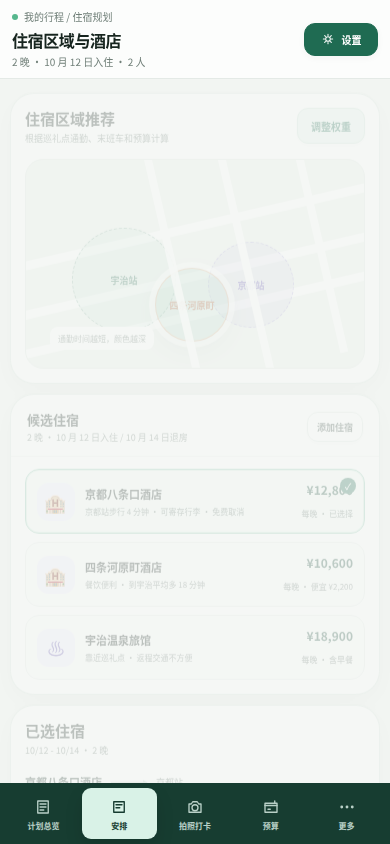
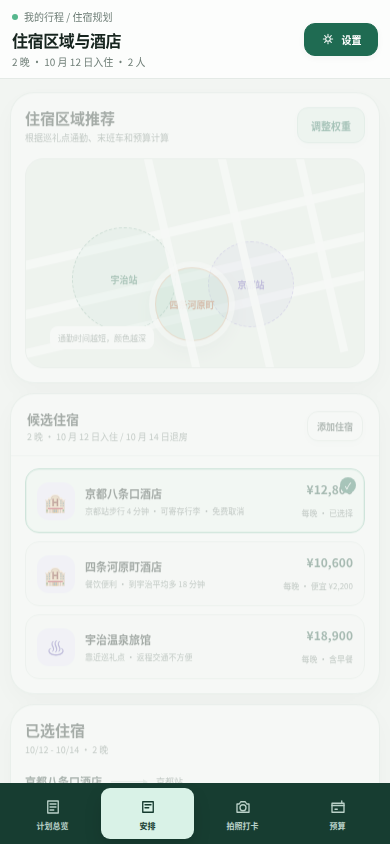
design: remove redundant mobile more tab

diff --git a/design/enikki-ui.html b/design/enikki-ui.html
@@ -115,14 +115,14 @@ button,input{font:inherit}button{border:0;cursor:pointer}svg{display:block}
 @media(max-width:760px){
   .app-shell{grid-template-rows:minmax(0,1fr) calc(61px + env(safe-area-inset-bottom))}
   .sidebar{padding:5px 6px calc(5px + env(safe-area-inset-bottom))}
-  .nav{grid-template-columns:repeat(5,minmax(0,1fr));gap:1px}
+  .nav{grid-template-columns:repeat(4,minmax(0,1fr));gap:2px}
   .nav button{padding:4px 1px;border-radius:9px}.nav button.desktop-only{display:none}.nav .mobile-only{display:flex!important}
-  .nav button[data-view="planner"]{order:1}.nav .mobile-arrange{order:2}.nav button[data-view="checkin"]{order:3}.nav button[data-view="budget"]{order:4}.nav .mobile-more{order:5}
+  .nav button[data-view="planner"]{order:1}.nav .mobile-arrange{order:2}.nav button[data-view="checkin"]{order:3}.nav button[data-view="budget"]{order:4}
   .nav button[data-view="checkin"].active{background:#bcebd7}.nav .ico{height:19px}.nav b{font-size:8px}
 }
 
 .settings-grid{height:100%;display:grid;grid-template-columns:minmax(0,1.35fr) minmax(320px,.72fr);gap:13px}.settings-column{min-height:0;display:flex;flex-direction:column;gap:12px}.settings-card{min-height:0;overflow:auto}.settings-list{display:grid;gap:1px;padding:5px 0 8px}.setting-row{display:flex;align-items:center;gap:12px;padding:11px 15px;background:#fff}.setting-row:hover{background:#fafcfb}.setting-icon{width:34px;height:34px;display:grid;place-items:center;border-radius:11px;color:var(--green);background:var(--green-soft);font-size:15px}.setting-copy{min-width:0;flex:1}.setting-copy b{display:block;font-size:10px}.setting-copy small{display:block;margin-top:3px;color:var(--muted);font-size:8px}.setting-value{color:#63766d;font-size:9px}.switch{position:relative;width:34px;height:20px;flex:0 0 34px;border-radius:99px;background:#cbd7d1}.switch:after{content:"";position:absolute;width:16px;height:16px;left:2px;top:2px;border-radius:50%;background:#fff;box-shadow:0 2px 5px rgba(0,0,0,.14);transition:.2s}.switch.on{background:var(--green)}.switch.on:after{left:16px}.setting-action{padding:6px 9px;border-radius:8px;color:var(--green);background:var(--green-soft);font-size:8px;font-weight:750}.storage-ring{position:relative;width:130px;height:130px;margin:6px auto 14px;border-radius:50%;background:conic-gradient(var(--green) 0 62%,#e3ebe6 62% 100%)}.storage-ring:before{content:"";position:absolute;inset:22px;border-radius:50%;background:#fff}.storage-copy{position:absolute;inset:0;display:grid;place-content:center;text-align:center}.storage-copy b{font-size:19px}.storage-copy small{color:var(--muted);font-size:8px}.data-actions{display:grid;grid-template-columns:1fr 1fr;gap:8px;padding:0 14px 14px}.data-action{padding:12px 8px;border:1px solid #e3ebe6;border-radius:13px;color:#40564d;background:#fafcfb;font-size:9px;font-weight:750;text-align:left}.data-action span{display:block;margin-top:5px;color:var(--muted);font-size:8px;font-weight:500}
-@media(max-width:760px){.settings-grid{display:block;height:auto}.settings-column{display:block}.settings-card{margin-bottom:10px}.setting-row{padding:10px 12px}.data-actions{grid-template-columns:1fr 1fr}.settings-top-action{min-width:74px}}
+@media(max-width:760px){.settings-grid{display:block;height:auto}.settings-column{display:block}.settings-card{margin-bottom:10px}.setting-row{padding:10px 12px}.data-actions{grid-template-columns:1fr 1fr}.settings-top-action{min-width:74px}.settings-top-action.settings-active{box-shadow:0 0 0 3px #cce7dc}}
 
 </style>
 </head>
@@ -173,10 +173,6 @@ button,input{font:inherit}button{border:0;cursor:pointer}svg{display:block}
         <span class="ico"><svg viewBox="0 0 24 24"><path d="M5 5h14v14H5z"/><path d="M8 9h8M8 13h5"/></svg></span>
         <b>安排</b>
       </button>
-      <button class="mobile-only mobile-more" data-mobile-target="more" data-mobile-sheet="more">
-        <span class="ico"><svg viewBox="0 0 24 24"><circle cx="5" cy="12" r="1"/><circle cx="12" cy="12" r="1"/><circle cx="19" cy="12" r="1"/></svg></span>
-        <b>更多</b>
-      </button>
     </nav>
     <div class="sidebar-foot">
       <div class="sync-card">
@@ -206,7 +202,7 @@ button,input{font:inherit}button{border:0;cursor:pointer}svg{display:block}
       <div class="top-actions">
         <button class="btn" onclick="toast('已打开交通、住宿与餐次规划')"><svg viewBox="0 0 24 24"><path d="M12 5v14M5 12h14"/></svg>添加安排</button>
         <button class="btn soft" onclick="toast('Anitabi 点位已同步：38 / 46')"><svg viewBox="0 0 24 24"><path d="m12 3 2.5 5.5L20 11l-5.5 2.5L12 19l-2.5-5.5L4 11z"/></svg>导入点位</button>
-        <button class="btn primary settings-top-action" onclick="activateView('settings')"><svg viewBox="0 0 24 24"><path d="M12 8a4 4 0 100 8 4 4 0 000-8z"/><path d="M4 12h2M18 12h2M12 4v2M12 18v2M6.3 6.3l1.4 1.4M16.3 16.3l1.4 1.4M17.7 6.3l-1.4 1.4M7.7 16.3l-1.4 1.4"/></svg>设置</button>
+        <button class="btn primary settings-top-action" id="settingsTopButton" onclick="activateView('settings')"><svg viewBox="0 0 24 24"><path d="M12 8a4 4 0 100 8 4 4 0 000-8z"/><path d="M4 12h2M18 12h2M12 4v2M12 18v2M6.3 6.3l1.4 1.4M16.3 16.3l1.4 1.4M17.7 6.3l-1.4 1.4M7.7 16.3l-1.4 1.4"/></svg>设置</button>
       </div>
     </header>
 
@@ -678,7 +674,7 @@ const navButtons = document.querySelectorAll('.nav [data-view]');
 const views = document.querySelectorAll('.view');
 const mobileTargetByView = {
   planner: 'planner', checkin: 'checkin', budget: 'budget',
-  transport: 'arrange', lodging: 'arrange', meals: 'arrange', settings: 'more', offline: 'more'
+  transport: 'arrange', lodging: 'arrange', meals: 'arrange'
 };
 
 function activateView(name, pushState = true) {
@@ -689,6 +685,9 @@ function activateView(name, pushState = true) {
   document.querySelectorAll('[data-mobile-target]').forEach((button) => {
     button.classList.toggle('active', button.dataset.mobileTarget === mobileTarget);
   });
+  document.getElementById('settingsTopButton')?.classList.toggle(
+    'settings-active', name === 'settings' || name === 'offline'
+  );
   const copy = pageCopy[name];
   document.getElementById('pageTitle').textContent = copy[1];
   document.getElementById('pageSubtitle').textContent = copy[2];
@@ -708,16 +707,11 @@ const mobileSheetData = {
     { view: 'lodging', icon: '🏨', label: '住宿', note: '酒店与通勤' },
     { view: 'meals', icon: '🍵', label: '用餐', note: '餐次与预约' }
   ],
-  more: [
-    { view: 'settings', icon: '⚙', label: '设置', note: '导入导出与离线' },
-    { action: 'sources', icon: 'B', label: '数据源', note: 'Bangumi / Anitabi' },
-    { action: 'about', icon: 'i', label: '关于', note: '版本与许可' }
-  ]
 };
 
 function openMobileSheet(type) {
   const data = mobileSheetData[type] || mobileSheetData.arrange;
-  document.getElementById('mobileSheetTitle').textContent = type === 'more' ? '更多' : '安排';
+  document.getElementById('mobileSheetTitle').textContent = '安排';
   document.getElementById('mobileSheetGrid').innerHTML = data.map((item) => `
     <button class="sheet-action${item.view === 'checkin' ? ' primary' : ''}"
       ${item.view ? `data-view="${item.view}"` : `data-action="${item.action}"`}>

diff --git a/design/README.md b/design/README.md
@@ -62,13 +62,13 @@ enikki-ui.html?view=offline
 
 ![移动端八页总览](preview-mobile-overview.png)
 
-移动端采用地图优先、时间线下滑和五项底部导航布局：
+移动端采用地图优先、时间线下滑和四项底部导航布局，设置固定在右上角：
 
 ```text
-计划 | 安排 | 打卡 | 预算 | 更多
+计划 | 安排 | 打卡 | 预算
 ```
 
-交通、住宿和用餐收进“安排”半屏面板，离线准备和其他设置收进“更多”面板。
+交通、住宿和用餐收进“安排”半屏面板；导入导出、离线设置、数据源和隐私统一放在右上角设置页。
 八个页面分别为：
 
 - [计划总览](preview-mobile.png)
@@ -83,10 +83,6 @@ enikki-ui.html?view=offline
 “安排”面板预览：
 
 ![移动端安排面板](preview-mobile-arrange.png)
-
-“更多”面板可以直接进入设置：
-
-![移动端更多面板](preview-mobile-more.png)
 
 ## 原型范围
 

diff --git a/README.md b/README.md
@@ -176,7 +176,7 @@ flowchart LR
 
 桌面八页设计总览见 [`design/preview-overview.png`](design/preview-overview.png)。
 
-手机端顶部提供设置入口，底部使用“计划 / 安排 / 打卡 / 预算 / 更多”五项底栏，
+手机端顶部提供设置入口，底部使用“计划 / 安排 / 打卡 / 预算”四项导航，
 八页设计总览见 [`design/preview-mobile-overview.png`](design/preview-mobile-overview.png)。
 
 界面说明和单独预览见 [`design/README.md`](design/README.md)。
